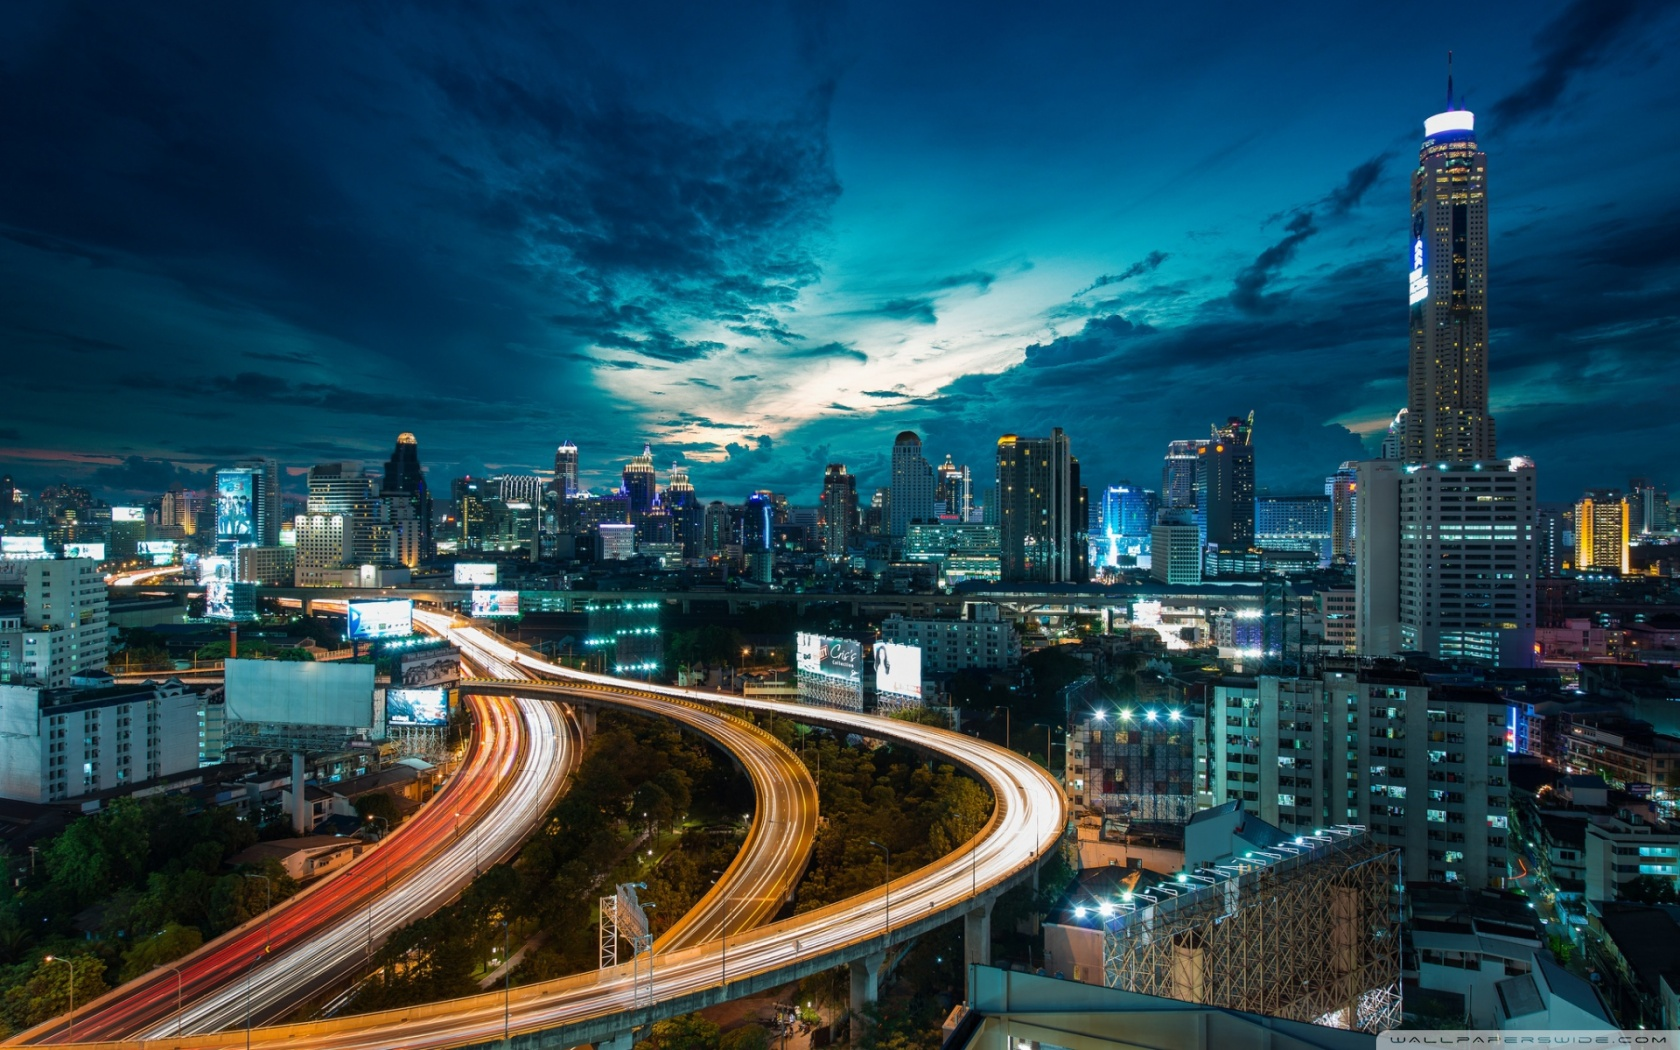
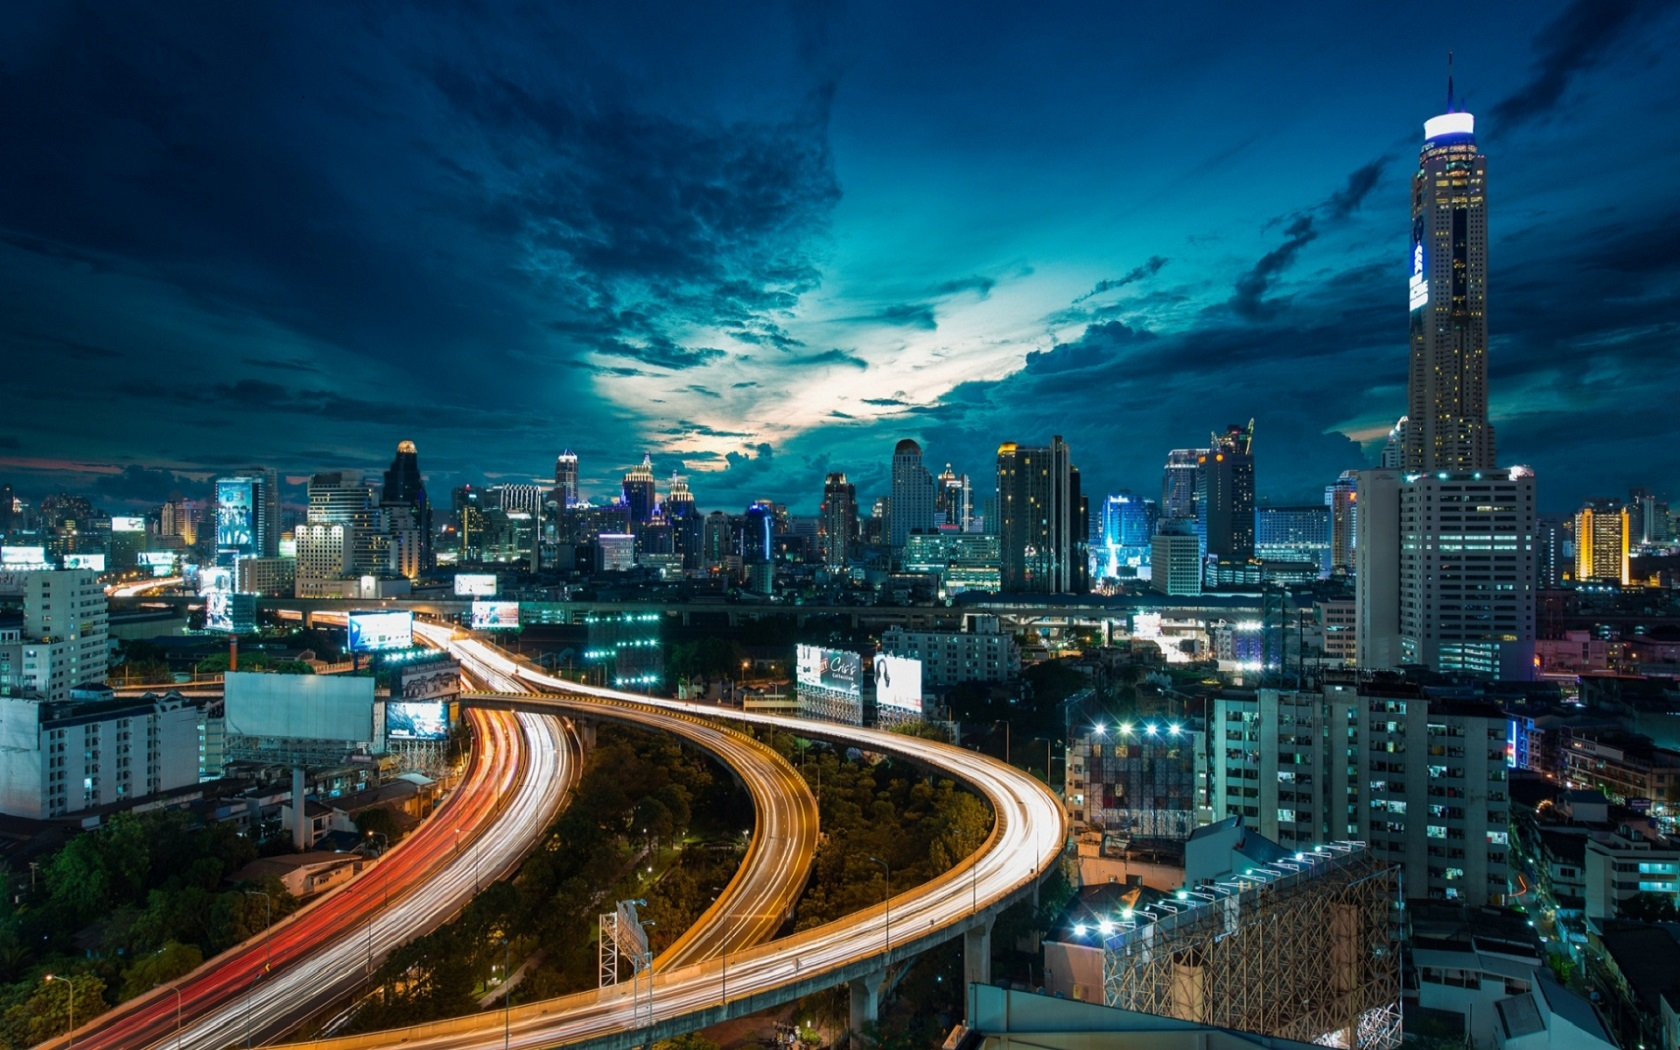
background

diff --git a/signin/css/signin.css b/signin/css/signin.css
@@ -2,18 +2,19 @@ body {
   padding-top: 50px;
   padding-bottom: 40px;
   background-color: white;
-  background-image: url("../../image/cityatnight1680x1050.jpg");
-  background-repeat: repeat-y;
-  background-size: 100%;
-  height: 100%;
+  background:url("../../image/cityatnight1680x1050.jpg") no-repeat center fixed transparent;
 }
+
 
 .form-signin {
   max-width: 330px;
   padding: 15px;
   margin: 0 auto;
 }
+.filler {
 
+	height: 100%;
+}
 .form-signin .form-control {
   position: relative;
   height: auto;

diff --git a/header/header.css b/header/header.css
@@ -11,3 +11,26 @@ hr {
 h3 {
 	margin-top: 12px;
 }
+@media (min-width: 768px){
+.navbar-left {
+position: absolute;
+left: 50%;
+transform: translate(-50%,0);
+margin-top:15px;
+}
+ .navbar>.container-fluid .navbar-brand {
+  margin-left: 30px;
+}
+.navbar-right {
+  margin-right: 30px;
+  margin-top: 10px;
+}
+}
+
+.container-fluid {
+position: relative;
+}
+.nav {
+  padding-left: 50px;
+  }
+  

diff --git a/signin/css/forgotPassword.css b/signin/css/forgotPassword.css
@@ -2,9 +2,8 @@ body {
   padding-top: 150px;
   padding-bottom: 40px;
   background-color: white;
-  background-image: url("../../image/cityatnight1680x1050.jpg");
-  background-repeat: no-repeat;
-  background-size: 100%;
+  background: url("../../image/cityatnight1680x1050.jpg") no-repeat center fixed transparent;
+
 }
 
 .form-forgot {

diff --git a/signin/css/resetPassword.css b/signin/css/resetPassword.css
@@ -2,9 +2,8 @@ body {
   padding-top: 150px;
   padding-bottom: 40px;
   background-color: white;
-  background-image: url("../../image/cityatnight1680x1050.jpg");
-  background-repeat: no-repeat;
-  background-size: 100%;
+  background: url("../../image/cityatnight1680x1050.jpg") no-repeat center fixed transparent;
+
 }
 
 .form-reset {

diff --git a/signup/css/forgotPassword.css b/signup/css/forgotPassword.css
@@ -2,9 +2,8 @@ body {
   padding-top: 50px;
   padding-bottom: 40px;
   background-color: white;
-  background-image: url("../../image/cityatnight1680x1050.jpg");
-  background-repeat: repeat-y;
-  background-size: 100%;
+  background: url("../../image/cityatnight1680x1050.jpg") no-repeat center fixed transparent;
+
 }
 
 #SignUpForm {

diff --git a/signup/css/resetPassword.css b/signup/css/resetPassword.css
@@ -2,9 +2,8 @@ body {
   padding-top: 50px;
   padding-bottom: 40px;
   background-color: white;
-  background-image: url("../../image/cityatnight1680x1050.jpg");
-  background-repeat: repeat-y;
-  background-size: 100%;
+  background: url("../../image/cityatnight1680x1050.jpg") no-repeat center fixed transparent;
+
 }
 
 #SignUpForm {

diff --git a/signup/css/signup.css b/signup/css/signup.css
@@ -2,9 +2,8 @@ body {
   padding-top: 50px;
   padding-bottom: 40px;
   background-color: white;
-  background-image: url("../../image/cityatnight1680x1050.jpg");
-  background-repeat: repeat-y;
-  background-size: 100%;
+  background: url("../../image/cityatnight1680x1050.jpg") no-repeat center fixed transparent;
+
 }
 
 #SignUpForm {

diff --git a/signup/css/setup.css b/signup/css/setup.css
@@ -2,9 +2,8 @@ body {
   padding-top: 50px;
   padding-bottom: 40px;
   background-color: white;
-  background-image: url("../../image/cityatnight1680x1050.jpg");
-  background-repeat: repeat-y;
-  background-size: 100%;
+  background: url("../../image/cityatnight1680x1050.jpg") no-repeat center fixed transparent;
+
 }
 
 #setupForm {

diff --git a/signup/css/email-confirmation.css b/signup/css/email-confirmation.css
@@ -1,8 +1,9 @@
 body {
   padding-top: 50px;
   padding-left:0px;
-  background-image: url("../../image/signout_background.png");
+  background: url("../../image/signout_background.png" ) no-repeat center fixed transparent;
   font: arial;
+
 }
 .starter-template {
   font-size: 20px;

diff --git a/header/header.php b/header/header.php
@@ -55,10 +55,10 @@ $FullName = $UData['FIRSTNAME'].' '.$UData['LASTNAME'];
                     <span class="icon-bar"></span>
                 </button>
 
-                <a id="logo" class="navbar-brand hidden-xs" href="#">				
+                <a id="logo" class="navbar-brand hidden-xs hidden-sm " href="#">				
 				<img src="../image/proconnect/logo_text.png" />				
 				</a>
-				<a id="logo" class="navbar-brand hidden-sm hidden-md hidden-lg" style = "width:200px;" href="#">				
+				<a id="logo" class="navbar-brand hidden-md hidden-lg" style = "width:200px;" href="#">				
 				<img style = "width:100%;" src="../image/proconnect/logo_text.png" />				
 				</a>
 
@@ -67,7 +67,7 @@ $FullName = $UData['FIRSTNAME'].' '.$UData['LASTNAME'];
                     <div class="form-group">
                       <input type="text" size="40" class="form-control" id= "searchbar" placeholder="Search for people, companies, jobs...">
                     </div>
-                    <button type="submit" class="btn btn-primary hidden-xs">&nbsp;&nbsp;&nbsp;&nbsp;<span class="glyphicon glyphicon-search"></span>&nbsp;&nbsp;&nbsp;&nbsp;</button>
+                    <button type="submit" class="btn btn-primary hidden-xs hidden-sm ">&nbsp;&nbsp;&nbsp;&nbsp;<span class="glyphicon glyphicon-search"></span>&nbsp;&nbsp;&nbsp;&nbsp;</button>
                 </form>
             </div>
 

diff --git a/signin/resetPassword.php b/signin/resetPassword.php
@@ -68,7 +68,7 @@ $ForgotPasswordKey = $_SESSION['__ForgotPasswordKey__'];
 
             </form>
      
-         <div>
+         </div>
     </div> <!-- /container -->
 
 </body>

diff --git a/signup/setup.php b/signup/setup.php
@@ -216,7 +216,7 @@
                     </div>
 
                 </form>
-             <div>
+             </div>
         </div>
     </div> <!-- /container -->
 
